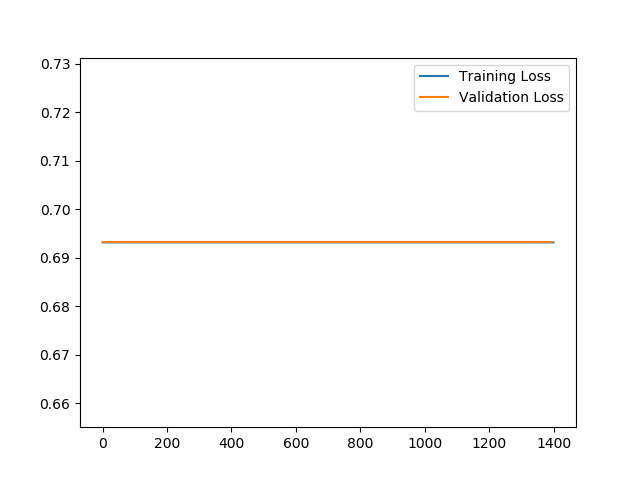
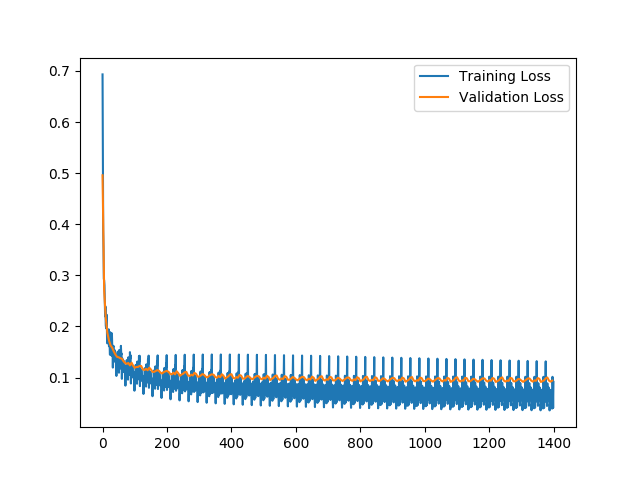
fixed train

diff --git a/assignment1/task2.py b/assignment1/task2.py
@@ -52,6 +52,7 @@ def train(
             
             # Backward
             model.backward(X_batch, train_outputs, Y_batch)
+            model.w -= learning_rate * model.grad
 
             # Track training loss continuously
             _train_loss = cross_entropy_loss(Y_batch, train_outputs)
@@ -85,6 +86,10 @@ validation_percentage = 0.1
 
 X_train, Y_train, X_val, Y_val, X_test, Y_test = utils.load_binary_dataset(
     category1, category2, validation_percentage)
+
+X_train = pre_process_images(X_train)
+X_val = pre_process_images(X_val)
+X_test = pre_process_images(X_test)
 
 # hyperparameters
 num_epochs = 50

diff --git a/assignment1/task2a.py b/assignment1/task2a.py
@@ -32,7 +32,7 @@ class BinaryModel:
 
     def __init__(self, l2_reg_lambda: float):
         # Define number of input nodes
-        self.I = 784
+        self.I = 785
         self.w = np.zeros((self.I, 1))
         self.grad = None
 
